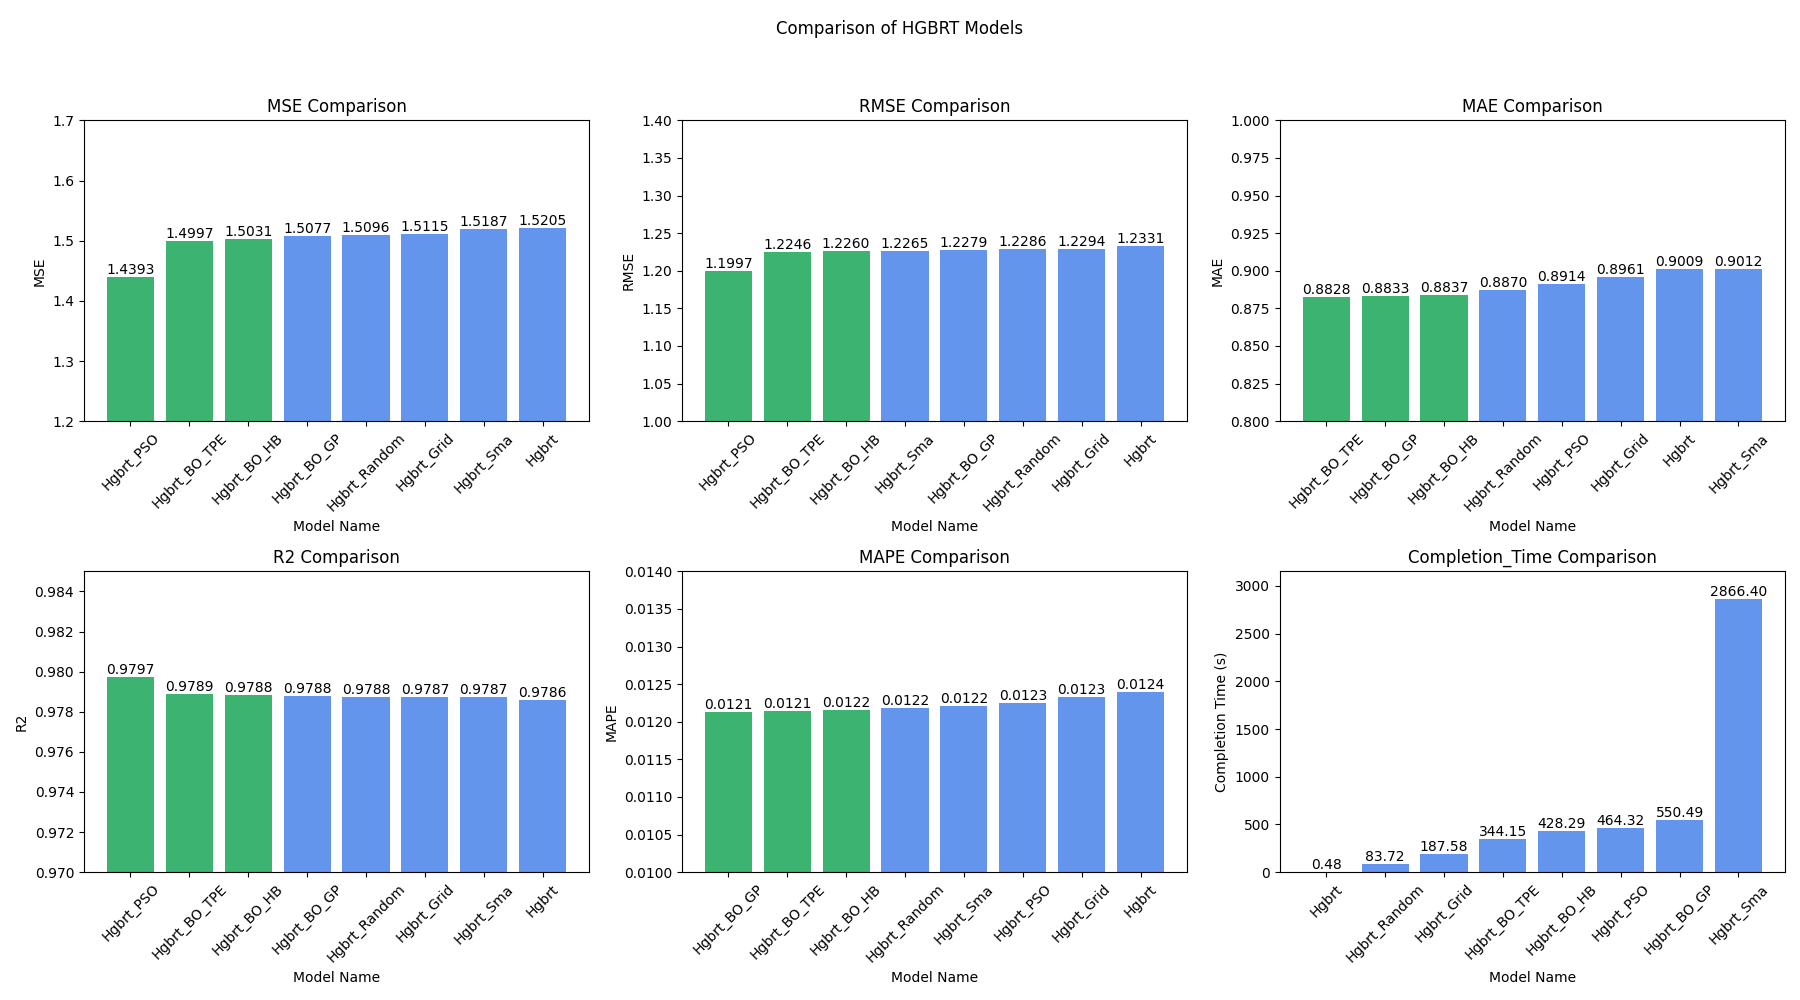
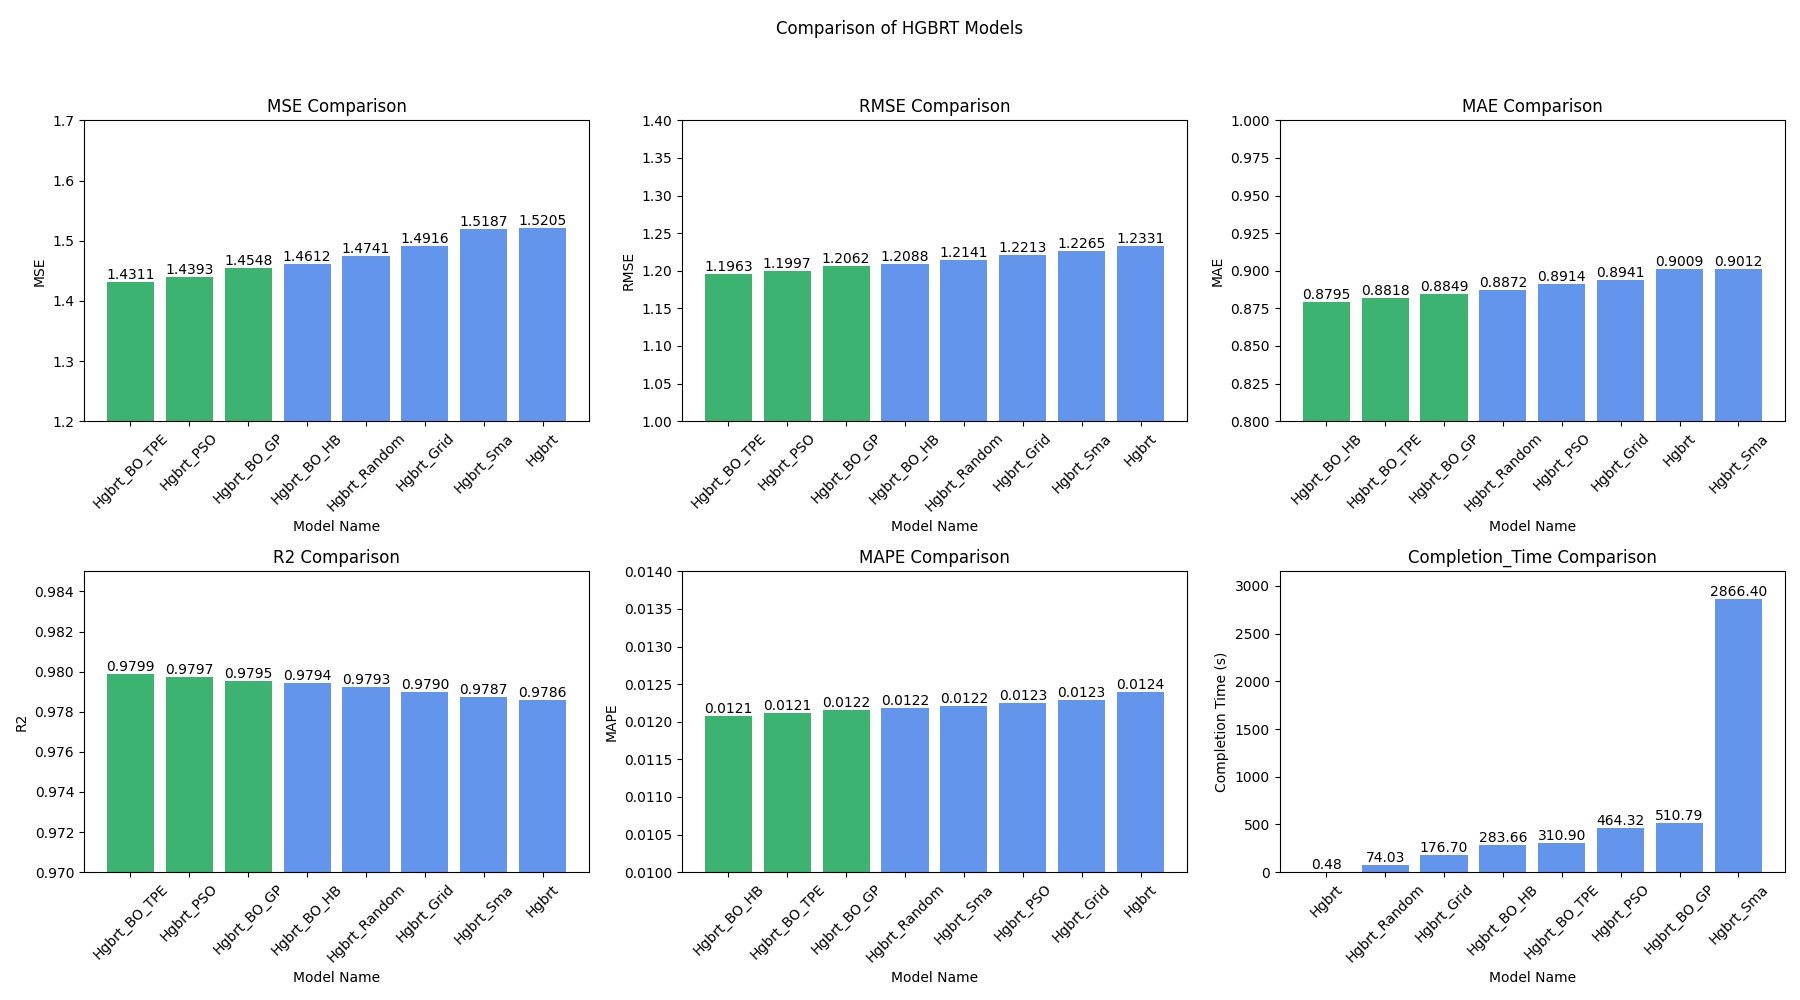
tpe performing better in all (than pso) but hb best in mae and mape

diff --git a/src/optimization.py b/src/optimization.py
@@ -79,7 +79,7 @@ def append_best_params_to_csv(model_name, best_params):
         df_params.to_csv(file_path, mode='a', header=False, index=False)
         
         
-model = HistGradientBoostingRegressor(random_state=10)
+model = HistGradientBoostingRegressor(random_state=40)
 
 # Grid Search
 start_time = time.time()  # Start time
@@ -102,110 +102,110 @@ completion_time_grid = time.time() - start_time  # End time
 append_metrics_to_csv('Hgbrt_Grid', metrics_grid, completion_time_grid)
 append_best_params_to_csv('Hgbrt_Grid', grid_search.best_params_)
 
-# # Random Search
-# start_time = time.time()  # Start time
-# param_grid_random = {
-#     'learning_rate': [0.001, 0.01, 0.05, 0.1, 0.2, 0.5],
-#     'max_iter': [100, 200, 300, 400, 500],
-#     'max_leaf_nodes': [20, 31, 50, 70, 100],
-#     'max_depth': [5, 10, 15, 20, 25],
-#     'min_samples_leaf': [10, 20, 30, 40, 50],
-#     'l2_regularization': [0, 0.1, 0.5, 0.8, 1]
-# }
+# Random Search
+start_time = time.time()  # Start time
+param_grid_random = {
+    'learning_rate': [0.001, 0.01, 0.05, 0.1, 0.2, 0.5],
+    'max_iter': [100, 200, 300, 400, 500],
+    'max_leaf_nodes': [20, 31, 50, 70, 100],
+    'max_depth': [5, 10, 15, 20, 25],
+    'min_samples_leaf': [10, 20, 30, 40, 50],
+    'l2_regularization': [0, 0.1, 0.5, 0.8, 1]
+}
 
-# random_search = RandomizedSearchCV(model, param_distributions=param_grid_random, n_iter=100, cv=5, scoring='neg_mean_squared_error', n_jobs=-1, verbose=1,random_state=44)
-# random_search.fit(X_train, y_train)
+random_search = RandomizedSearchCV(model, param_distributions=param_grid_random, n_iter=100, cv=5, scoring='neg_mean_squared_error', n_jobs=-1, verbose=1,random_state=44)
+random_search.fit(X_train, y_train)
 
-# y_pred_random = random_search.best_estimator_.predict(X_test)
-# metrics_random = calculate_metrics(y_test, y_pred_random)
+y_pred_random = random_search.best_estimator_.predict(X_test)
+metrics_random = calculate_metrics(y_test, y_pred_random)
 
-# completion_time_random = time.time() - start_time  # End time
-# append_metrics_to_csv('Hgbrt_Random', metrics_random, completion_time_random)
-# append_best_params_to_csv('Hgbrt_Random', random_search.best_params_)
+completion_time_random = time.time() - start_time  # End time
+append_metrics_to_csv('Hgbrt_Random', metrics_random, completion_time_random)
+append_best_params_to_csv('Hgbrt_Random', random_search.best_params_)
 
-# # Bayesian Optimization (Bayesian Optimization with Gaussian Process)
-# start_time = time.time()
-# search_space = {
-#     'learning_rate': Real(0.001, 0.5, prior='uniform'),
-#     'max_iter': Integer(100, 500),
-#     'max_leaf_nodes': Integer(20, 100),
-#     'max_depth': Integer(5, 25),
-#     'min_samples_leaf': Integer(10, 50),
-#     'l2_regularization': Real(0, 2, prior='uniform')
-# }
-
-
-# bayes_search = BayesSearchCV(model, search_space, n_iter=100, cv=5, scoring='neg_mean_squared_error', random_state=44)
-# bayes_search.fit(X_train, y_train)
-
-# y_pred_bayes = bayes_search.best_estimator_.predict(X_test)
-# metrics_bayes = calculate_metrics(y_test, y_pred_bayes)
-
-# completion_time_bayes = time.time() - start_time
-# append_metrics_to_csv('Hgbrt_BO_GP', metrics_bayes, completion_time_bayes)
-# append_best_params_to_csv('Hgbrt_BO_GP', bayes_search.best_params_)
+# Bayesian Optimization (Bayesian Optimization with Gaussian Process)
+start_time = time.time()
+search_space = {
+    'learning_rate': Real(0.001, 0.5, prior='uniform'),
+    'max_iter': Integer(5, 500),
+    'max_leaf_nodes': Integer(5, 100),
+    'max_depth': Integer(5, 25),
+    'min_samples_leaf': Integer(5, 50),
+    'l2_regularization': Real(0, 2, prior='uniform')
+}
 
 
-# # Bayesian Optimization with TPE (Hyperopt)
-# start_time = time.time()
-# def objective(params):
-#     params['max_iter'] = int(params['max_iter'])
-#     params['max_leaf_nodes'] = int(params['max_leaf_nodes'])
-#     params['max_depth'] = int(params['max_depth'])
-#     params['min_samples_leaf'] = int(params['min_samples_leaf'])
-#     model = HistGradientBoostingRegressor(**params, random_state=10)
-#     score = -cross_val_score(model, X_train, y_train, cv=5, scoring='neg_mean_squared_error').mean()
-#     return {'loss': score, 'status': STATUS_OK}
+bayes_search = BayesSearchCV(model, search_space, n_iter=100, cv=5, scoring='neg_mean_squared_error', random_state=44)
+bayes_search.fit(X_train, y_train)
 
-# space = {
-#     'learning_rate': hp.uniform('learning_rate', 0.001, 0.5),
-#     'max_iter': hp.quniform('max_iter', 100, 500, 1),
-#     'max_leaf_nodes': hp.quniform('max_leaf_nodes', 20, 100, 1),
-#     'max_depth': hp.quniform('max_depth', 5, 25, 1),
-#     'min_samples_leaf': hp.quniform('min_samples_leaf', 10, 50, 1),
-#     'l2_regularization': hp.uniform('l2_regularization', 0, 2)
-# }
+y_pred_bayes = bayes_search.best_estimator_.predict(X_test)
+metrics_bayes = calculate_metrics(y_test, y_pred_bayes)
 
-# trials = Trials()
-# best_tpe = fmin(fn=objective, space=space, algo=tpe.suggest, max_evals=100, trials=trials, rstate=np.random.default_rng(44))
+completion_time_bayes = time.time() - start_time
+append_metrics_to_csv('Hgbrt_BO_GP', metrics_bayes, completion_time_bayes)
+append_best_params_to_csv('Hgbrt_BO_GP', bayes_search.best_params_)
 
-# best_params_tpe = {k: int(v) if isinstance(v, float) and k in ['max_iter', 'max_leaf_nodes', 'max_depth', 'min_samples_leaf'] else v for k, v in best_tpe.items()}
 
-# model_tpe = HistGradientBoostingRegressor(**best_params_tpe, random_state=10)
-# model_tpe.fit(X_train, y_train)
+# Bayesian Optimization with TPE (Hyperopt)
+start_time = time.time()
+def objective(params):
+    params['max_iter'] = int(params['max_iter'])
+    params['max_leaf_nodes'] = int(params['max_leaf_nodes'])
+    params['max_depth'] = int(params['max_depth'])
+    params['min_samples_leaf'] = int(params['min_samples_leaf'])
+    model = HistGradientBoostingRegressor(**params, random_state=10)
+    score = -cross_val_score(model, X_train, y_train, cv=5, scoring='neg_mean_squared_error').mean()
+    return {'loss': score, 'status': STATUS_OK}
 
-# y_pred_tpe = model_tpe.predict(X_test)
-# metrics_tpe = calculate_metrics(y_test, y_pred_tpe)
+space = {
+    'learning_rate': hp.uniform('learning_rate', 0.001, 0.5),
+    'max_iter': hp.quniform('max_iter', 5, 500, 1),
+    'max_leaf_nodes': hp.quniform('max_leaf_nodes', 5, 100, 1),
+    'max_depth': hp.quniform('max_depth', 5, 30, 1),
+    'min_samples_leaf': hp.quniform('min_samples_leaf', 5, 50, 1),
+    'l2_regularization': hp.uniform('l2_regularization', 0, 2)
+}
 
-# completion_time_tpe = time.time() - start_time
-# append_metrics_to_csv('Hgbrt_BO_TPE', metrics_tpe, completion_time_tpe)
-# append_best_params_to_csv('Hgbrt_BO_TPE', best_params_tpe)
+trials = Trials()
+best_tpe = fmin(fn=objective, space=space, algo=tpe.suggest, max_evals=100, trials=trials, rstate=np.random.default_rng(44))
 
-# # Optuna - Hyperband Optimization (Using correct HyperbandPruner)
-# start_time = time.time()
-# def objective(trial):
-#     model = HistGradientBoostingRegressor(
-#         learning_rate=trial.suggest_float('learning_rate', 0.001, 0.5),
-#         max_iter=trial.suggest_int('max_iter', 100, 500),
-#         max_leaf_nodes=trial.suggest_int('max_leaf_nodes', 20, 100),
-#         max_depth=trial.suggest_int('max_depth', 5, 25),
-#         min_samples_leaf=trial.suggest_int('min_samples_leaf', 10, 50),
-#         l2_regularization=trial.suggest_float('l2_regularization', 0, 2),
-#         random_state=10
-#     )
-#     return -cross_val_score(model, X_train, y_train, cv=5, scoring='neg_mean_squared_error').mean()
+best_params_tpe = {k: int(v) if isinstance(v, float) and k in ['max_iter', 'max_leaf_nodes', 'max_depth', 'min_samples_leaf'] else v for k, v in best_tpe.items()}
 
-# study = optuna.create_study(direction='minimize', sampler=TPESampler(seed=44), pruner=HyperbandPruner())
-# study.optimize(objective, n_trials=100)
+model_tpe = HistGradientBoostingRegressor(**best_params_tpe, random_state=40)
+model_tpe.fit(X_train, y_train)
 
-# best_params_hyperband = study.best_params
-# model_hyperband = HistGradientBoostingRegressor(**best_params_hyperband, random_state=10)
-# model_hyperband.fit(X_train, y_train)
+y_pred_tpe = model_tpe.predict(X_test)
+metrics_tpe = calculate_metrics(y_test, y_pred_tpe)
 
-# y_pred_hyperband = model_hyperband.predict(X_test)
-# metrics_hyperband = calculate_metrics(y_test, y_pred_hyperband)
+completion_time_tpe = time.time() - start_time
+append_metrics_to_csv('Hgbrt_BO_TPE', metrics_tpe, completion_time_tpe)
+append_best_params_to_csv('Hgbrt_BO_TPE', best_params_tpe)
 
-# completion_time_hyperband = time.time() - start_time
-# append_metrics_to_csv('Hgbrt_BO_HB', metrics_hyperband, completion_time_hyperband)
-# append_best_params_to_csv('Hgbrt_BO_HB', best_params_hyperband)
+# Optuna - Hyperband Optimization (Using correct HyperbandPruner)
+start_time = time.time()
+def objective(trial):
+    model = HistGradientBoostingRegressor(
+        learning_rate=trial.suggest_float('learning_rate', 0.001, 0.5),
+        max_iter=trial.suggest_int('max_iter', 5, 500),
+        max_leaf_nodes=trial.suggest_int('max_leaf_nodes', 5, 100),
+        max_depth=trial.suggest_int('max_depth', 5, 30),
+        min_samples_leaf=trial.suggest_int('min_samples_leaf', 5, 50),
+        l2_regularization=trial.suggest_float('l2_regularization', 0, 2),
+        random_state=10
+    )
+    return -cross_val_score(model, X_train, y_train, cv=5, scoring='neg_mean_squared_error').mean()
+
+study = optuna.create_study(direction='minimize', sampler=TPESampler(seed=44), pruner=HyperbandPruner())
+study.optimize(objective, n_trials=100)
+
+best_params_hyperband = study.best_params
+model_hyperband = HistGradientBoostingRegressor(**best_params_hyperband, random_state=40)
+model_hyperband.fit(X_train, y_train)
+
+y_pred_hyperband = model_hyperband.predict(X_test)
+metrics_hyperband = calculate_metrics(y_test, y_pred_hyperband)
+
+completion_time_hyperband = time.time() - start_time
+append_metrics_to_csv('Hgbrt_BO_HB', metrics_hyperband, completion_time_hyperband)
+append_best_params_to_csv('Hgbrt_BO_HB', best_params_hyperband)
 
